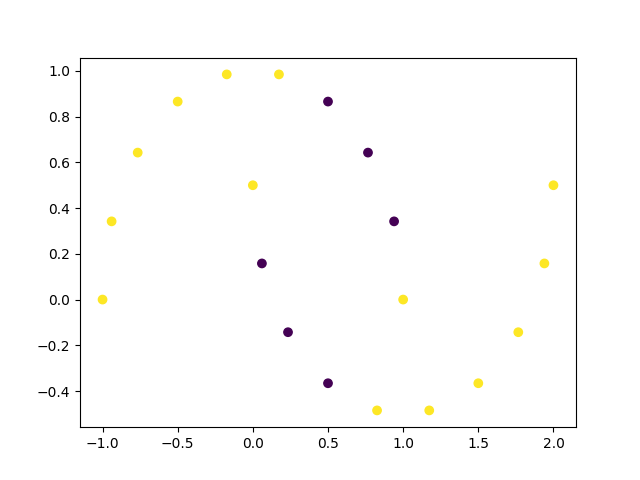
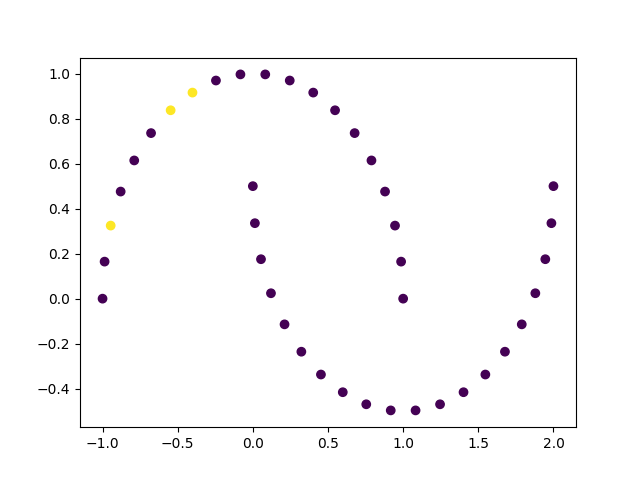
trying to get nearest neighbours

diff --git a/main.py b/main.py
@@ -8,14 +8,14 @@ matplotlib.use('Agg')
 
 from sklearn.datasets import make_moons
 from sklearn.cluster import KMeans, SpectralClustering
-n = 20
+n = 40
 X, Y = make_moons(n_samples=n, noise=0)
 
 X = np.ndarray.tolist(X)
 X.sort(key=util.sortingFunction)
 
 moonsGraph = util.makeMoonsGraph(X)
-
+moonsGraph = util.n_nearest_Neighbours(moonsGraph,7)
 Lnorm = nx.normalized_laplacian_matrix(moonsGraph)
 #matrix.A returns matrix view
 
@@ -31,9 +31,10 @@ Values = []
 Vectors = []
 Key = []
 '''
+
 eigens = util.sortEigens(eigvalues, eigVectors)
-for i, val in enumerate(eigens["vectors"]):
-    print(i, ": ", eigens["values"][i], val)
+#for i, val in enumerate(eigens["vectors"]):
+  #  print(i, ": ", eigens["values"][i], val)
 
 
 c = 1
@@ -41,10 +42,10 @@ epsilon = 2
 dt = 0.1
 iterations = 100
 
-a = util.a_init(X, eigens["vectors"])
-b = util.b_init(X, eigens["vectors"])
-d = util.d_init(eigens["vectors"])
-D = util.D_init(dt, eigens["values"], c, epsilon)
+#a = util.a_init(X, eigens["vectors"])
+#b = util.b_init(X, eigens["vectors"])
+#d = util.d_init(eigens["vectors"])
+#D = util.D_init(dt, eigens["values"], c, epsilon)
 
 #print(a)
 #print(b)
@@ -65,8 +66,11 @@ output = []
 for i in eigens["key"]:
     print( i, util.segment(util.u_nth(a, eigens["vectors"], i)))
     output.append(util.segment(util.u_nth(a, eigens["vectors"], i)))
-
 '''
+for i in range(len(eigens["vectors"][1])):
+    output.append(util.segment(eigens["vectors"][1][i]))
+'''
+
 for i in range(len(eigens["vectors"][1])):
     output.append(util.segment(eigens["vectors"][1][i]))
 
@@ -75,6 +79,7 @@ for i in eigens["vectors"][0]:
     total += i**2
 
 print(total)
+'''
 #init a
 ''' 
 for i,eig in enumerate(eigens):
@@ -136,21 +141,20 @@ for r in X:
     new_x.append(r[0])
     new_y.append(r[1])
 
-#kmeans = KMeans(n_clusters=2)
-#new_data = []
-#for i in eigens["vectors"][1]:
- #   new_data.append([i])
+kmeans = KMeans(n_clusters=2)
 
-#spec = SpectralClustering(n_clusters=4, affinity='nearest_neighbors')
+
+#spec = SpectralClustering(n_clusters=2, affinity='nearest_neighbors')
 
 #print(new_data)
-
-#kmeans.fit(new_data)
+print(eigens["vectors"][1])
+kmeans.fit(eigens["vectors"][1].reshape(-1, 1))
 #spec.fit(X)
-plt.scatter(new_x, new_y, c=output)
+plt.scatter(new_x, new_y, c=kmeans.labels_)
 plt.savefig("moons.png")
 
-#pos=nx.get_node_attributes(moonsGraph,'pos')
-#ax = plt.subplot(121)
-#nx.draw(moonsGraph, pos)
-#plt.savefig('graph.png')
+pos=nx.get_node_attributes(moonsGraph,'pos')
+
+ax = plt.subplot(121)
+nx.draw(moonsGraph, pos)
+plt.savefig('graph.png')

diff --git a/helper.py b/helper.py
@@ -13,11 +13,11 @@ def makeMoonsGraph(X):
 
     for i,node in enumerate(X):
         for j in range(i+1,len(X)):
-            dx = node[0] - X[j][0]
-            dy = node[1] - X[j][1]
-            dist = (dx**2 + dy**2)**0.5
-            w = 2.781 ** ( -((dist ** 2)) / 2)
-            G.add_edge(i,j,weight = w)
+            #dx = node[0] - X[j][0]
+            #dy = node[1] - X[j][1]
+            #dist = (dx**2 + dy**2)**0.5
+            w = 0 #2.781 ** ( -((dist ** 2)) / 2)
+            #G.add_edge(i,j)
     return G
 
 def findBestEigen(eigVecs, Correct_labels, X):
@@ -43,7 +43,24 @@ def findBestEigen(eigVecs, Correct_labels, X):
         plt.scatter(new_x, new_y, c=kmeans.labels_)
         plt.savefig("moons.png")
 
+def dist(a,b):
+    return (a**2 + b**2)**0.5
 
+def n_nearest_Neighbours(G, M):
+    node = 0
+
+    all_distances = []
+    for i in range(0,len(list(G.nodes))):
+        init_pos = G.nodes[node]['pos']
+        distances = []
+        for n in list(G.nodes):
+            distances.append([dist(init_pos[0] - G.nodes[n]['pos'][0] , init_pos[1] - G.nodes[n]['pos'][1]), n])
+            distances.sort(key=sortingFunction)
+        for i in distances:
+            if node != i[1]:
+                G.add_edge(node, i[1], weight= 2.781 ** ( -((i[0] ** 2)) / 2))
+        node += 1
+    return G
 
 '''
 Making functions for the convex splitting scheme
